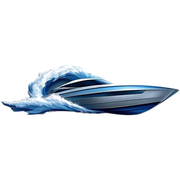
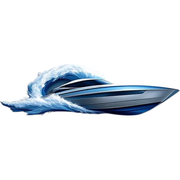
Логотип с прозрачным фоном, название Tuning Boat Service Surgut
Claude-Session: https://claude.ai/code/session_01Gnkcb46VtdBGs2xpKo3arh

diff --git a/index.html b/index.html
@@ -3,9 +3,9 @@
 <head>
   <meta charset="utf-8">
   <meta name="viewport" content="width=device-width, initial-scale=1">
-  <title>Boats Service Surgut — тюнинг лодок и катеров в Сургуте</title>
-  <meta name="description" content="Boats Service Surgut — тюнинг лодок и катеров в Сургуте: оклейка, покраска, электроника, свет, интерьер, тенты, моторы. Запись по телефону и в MAX.">
-  <meta property="og:title" content="Boats Service Surgut — тюнинг лодок и катеров в Сургуте">
+  <title>Tuning Boat Service Surgut — тюнинг лодок и катеров в Сургуте</title>
+  <meta name="description" content="Tuning Boat Service Surgut — тюнинг лодок и катеров в Сургуте: оклейка, покраска, электроника, свет, интерьер, тенты, моторы. Запись по телефону и в MAX.">
+  <meta property="og:title" content="Tuning Boat Service Surgut — тюнинг лодок и катеров в Сургуте">
   <meta property="og:description" content="Делаем лодку, которой хочется гордиться. Запись по телефону и в MAX.">
   <meta property="og:type" content="website">
   <meta name="theme-color" content="#ffffff">
@@ -269,8 +269,8 @@ p, li, figcaption { text-wrap: pretty; }
 
 <header class="header" id="top">
   <div class="container header__inner">
-    <a href="#top" class="logo" aria-label="Boats Service Surgut — на главную">
-      <img src="images/logo.png" alt="Tuning Boat Service Surgut" width="416" height="200">
+    <a href="#top" class="logo" aria-label="Tuning Boat Service Surgut — на главную">
+      <img src="images/logo.png" alt="Tuning Boat Service Surgut" width="419" height="200">
     </a>
     <nav class="nav" id="nav">
       <a href="#works">Работы</a>
@@ -453,7 +453,7 @@ p, li, figcaption { text-wrap: pretty; }
 
 <footer class="footer">
   <div class="container footer__inner">
-    <span>© <span id="year">2026</span> Boats Service Surgut. Тюнинг лодок и&nbsp;катеров в&nbsp;Сургуте.</span>
+    <span>© <span id="year">2026</span> Tuning Boat Service Surgut. Тюнинг лодок и&nbsp;катеров в&nbsp;Сургуте.</span>
     <a href="#top">Наверх ↑</a>
   </div>
 </footer>

diff --git a/README.md b/README.md
@@ -1,4 +1,4 @@
-# Boats Service Surgut — сайт тюнинга лодок и катеров
+# Tuning Boat Service Surgut — сайт тюнинга лодок и катеров
 
 Статический сайт для GitHub Pages: без сборки и серверной части.
 Запись — по телефону или в MAX. Форм на сайте нет: персональные данные не собираются.
